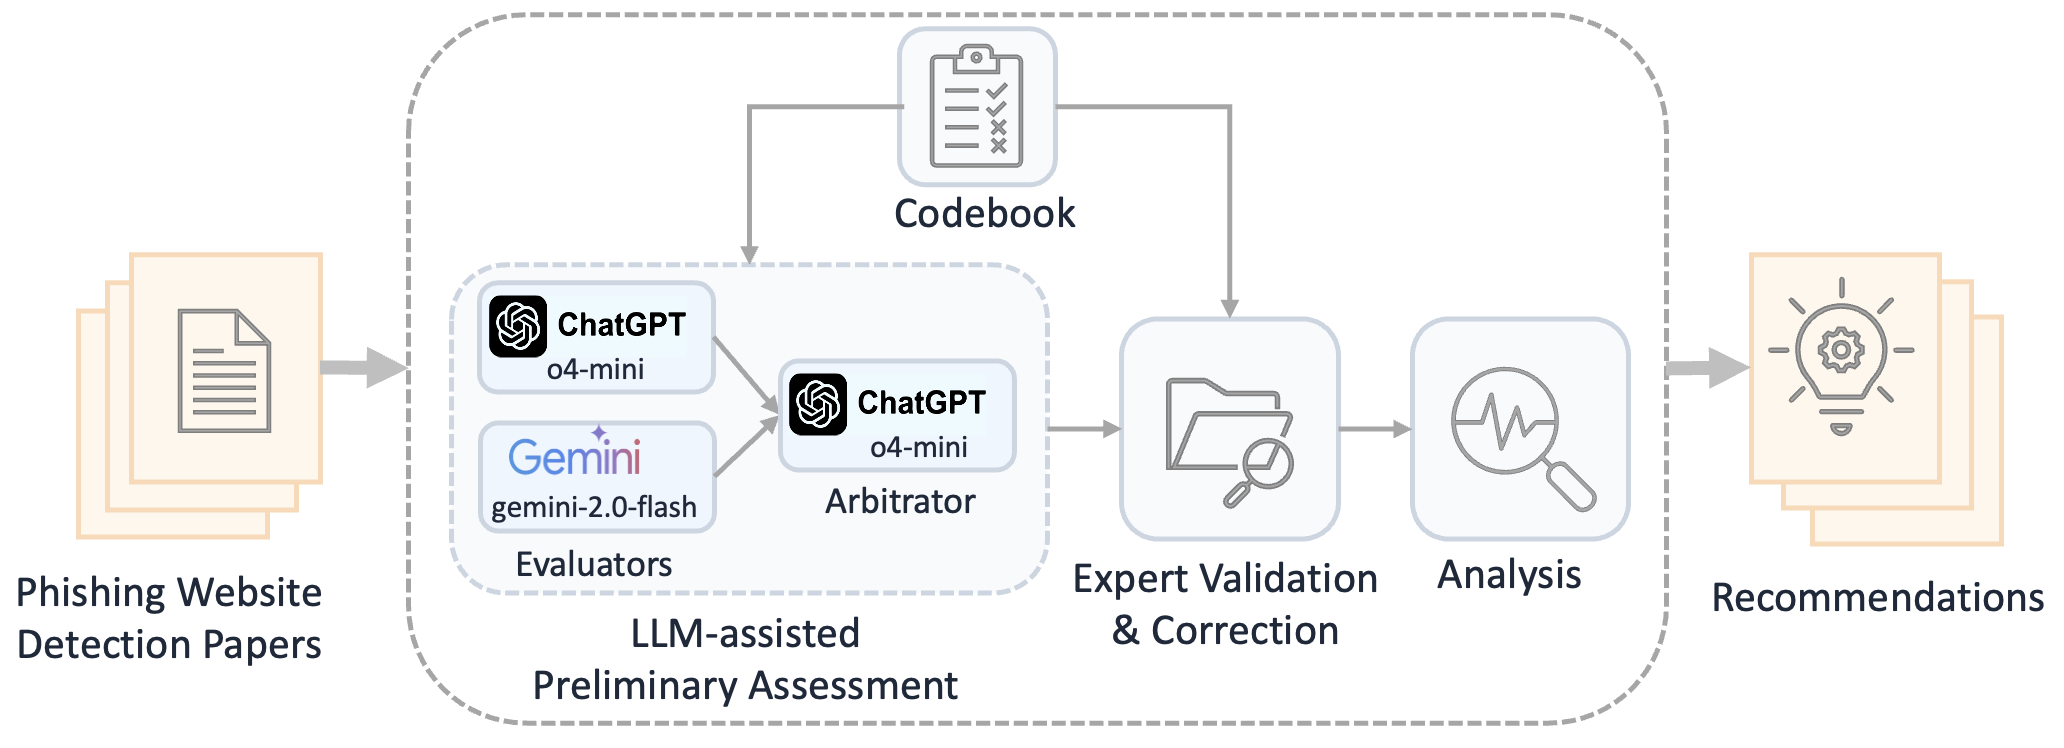
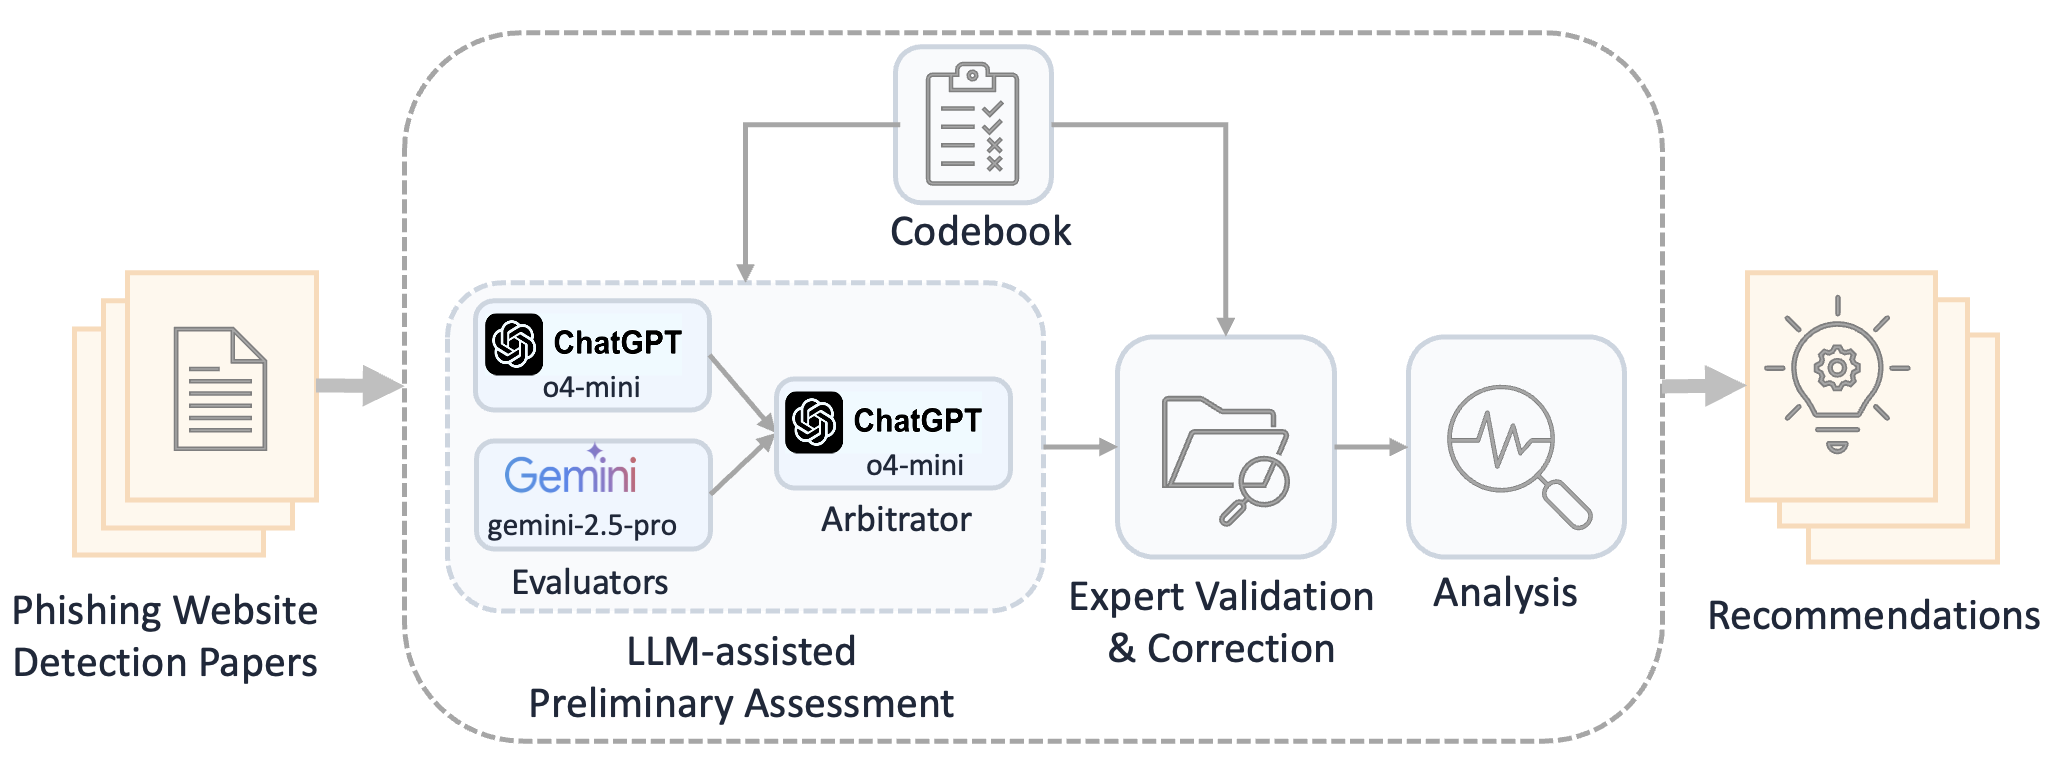
Update analyis script descriptions

diff --git a/scripts/fulfillment_by_publication_year.py b/scripts/fulfillment_by_publication_year.py
@@ -73,7 +73,7 @@ for paper, content in data.items():
             grand_metric_counts[metric_latex][verdict] += 1
 
 # ---- LaTeX output ----
-with open("year_table.txt", "w") as out_file:
+with open("publication_year_table.txt", "w") as out_file:
     out_file.write("Year & Count & " + " & ".join(latex_order) + " & Total \\\\\n")
     out_file.write("\\hline\n")
     for year in year_list:
@@ -163,5 +163,5 @@ for year in year_list + ["Grand total"]:
             "metrics": per_metric
         }
 
-with open("z_year_table.json", "w") as jf:
+with open("publication_year_table.json", "w") as jf:
     json.dump(json_dump, jf, indent=2)

diff --git a/scripts/fulfillment_by_citation.py b/scripts/fulfillment_by_citation.py
@@ -86,7 +86,7 @@ sorted_buckets = [b for b in bucket_order if b in buckets_present]
 if "unknown" in buckets_present:
     sorted_buckets.append("unknown")
 
-with open("z_citation_table.txt", "w") as out_file:
+with open("citation_table.txt", "w") as out_file:
     out_file.write("Citations & Count & " + " & ".join(latex_order) + " \\\\\n")
     out_file.write("\\hline\n")
     for bucket in sorted_buckets:

diff --git a/scripts/fulfillment_by_accuracy.py b/scripts/fulfillment_by_accuracy.py
@@ -88,7 +88,7 @@ for paper, content in data.items():
 ordered_bins = bin_labels  # as defined above
 
 # ---- LaTeX output ----
-with open("z_accuracy_table.txt", "w") as out_file:
+with open("accuracy_table.txt", "w") as out_file:
     out_file.write("Accuracy & " + " & ".join(latex_order) + " \\\\\n")
     out_file.write("\\hline\n")
     for bin_label in ordered_bins:

diff --git a/scripts/fulfillment_by_category.py b/scripts/fulfillment_by_category.py
@@ -67,7 +67,7 @@ def tex_bar(x, y, z, total):
             out.append(str(n))
     return " & ".join(out)
 
-with open("z_category.txt", "w") as out_file:
+with open("category.txt", "w") as out_file:
     # Header
     out_file.write("Category & Count & " + " & ".join(latex_order) + "\\\\\n")
     out_file.write("\\hline\n")

diff --git a/scripts/fulfillment_by_input.py b/scripts/fulfillment_by_input.py
@@ -156,5 +156,5 @@ for input_type in sorted_inputs + ["Total"]:
             "metrics": per_metric
         }
 
-with open("z_input_table.json", "w") as jf:
+with open("input_table.json", "w") as jf:
     json.dump(json_dump, jf, indent=2)

diff --git a/README.md b/README.md
@@ -2,13 +2,20 @@
 
 **PH**ishing detection literature **I**nspection via **L**LMs and **T**argeted **E**xpert **R**eview.
 
-PHILTER is a transparent, scalable framework for assessing AI-based phishing website detection papers against seven deployment-relevant requirements: four **Functionality** metrics (F1–F4) and three **Security** metrics (S1–S3). LLMs extract evidence and draft rationales; **experts validate and finalize all labels**. Applying PHILTER to 55 studies reveals systemic gaps and trade-offs.
+PHILTER is a transparent, scalable, and evidence-driven framework for assessing AI-based phishing website detection papers against four functionality (F1-F4) and three security (S1-S3) metrics. LLM preliminary assessment pipeline extracts supporting text from the paper and generates rationales for its assessment. Two experts independently validate all LLM-generated preliminary assessments by checking the extracted evidence and rationale against the paper and the codebook, correcting misinterpretations. Any disagreements were resolved through discussion. Applying PHILTER to 55 studies reveals systemic gaps and trade-offs.
 
 ---
 
 ## Framework Overview
 
 ![Framework Overview](framework-overview.png)
+
+### LLM-assisted Preliminary Assessment
+
+- Evaluators: Two evaluator LLMs (OpenAI o4-mini and Google Gemini-2.5-Pro) independently extract supporting text from each paper and generate a preliminary assessment with rationale.
+
+- Arbitrator: When the two evaluators disagree, an arbitrator LLM (OpenAI o4-mini) reviews the full paper, codebook, and both evaluator assessments, and generates an arbitrated assessment with its own rationale and extracted evidence.
+
 
 ## 📦 Repository layout
 
@@ -41,24 +48,49 @@ PHILTER/
 └─ requirements.txt
 ```
 
-## Quick start
-
-Put the research papers on phishing website detection inside `papers` directory.
+## LLM Assessment Pipline Script
 
 ```bash
-# 1) Create env (Python 3.10–3.12 recommended)
+python llm_assessment_pipeline.py --help                                              
+Both GOOGLE_API_KEY and GEMINI_API_KEY are set. Using GOOGLE_API_KEY.
+usage: llm_assessment_pipeline.py [-h] [-p PDF_PATH] [-m METRIC_PATH] [-o OUTPUT_JSON] [--override] [--no-cache]
+
+options:
+  -h, --help            show this help message and exit
+  -p PDF_PATH, --pdf-path PDF_PATH
+                        PDF file or directory
+  -m METRIC_PATH, --metric-path METRIC_PATH
+                        Metric file or directory
+  -o OUTPUT_JSON, --output-json OUTPUT_JSON
+                        Assessment output JSON file
+  --override            Override previously processed results
+  --no-cache            Invokes LLMs to recalculate verdicts, ignoring cached results
+```
+
+## LLM Assessment
+
+```bash
+# 1) Put the research papers on phishing website detection inside `papers` directory.
+
+# 2) Create env (Python 3.10–3.12 recommended)
 python -m venv .venv && source .venv/bin/activate
 
-# 2) Install dependencies
+# 3) Install dependencies
 pip install -r requirements.txt
 
-# 3) Set OpenAI and Gemini API keys
+# 4) Set OpenAI and Gemini API keys
 export OPENAI_API_KEY=...
-export GOOGLE_API_KEY=...
+export GEMINI_API_KEY=...
 
-# 4) Run LLM-assisted prelimiary evaluation stage
+# 5) Run LLM-assisted prelimiary evaluation stage
 python llm_assessment_pipeline.py -p . -m codebook/f1-coverage.txt -o assessments.json
+
+# 6) To run the assessment pipeline for all metrics, provide the directory containing the codebooks for all metrics in argument `-m`.
+
+python llm_assessment_pipeline.py -p . -m codebook -o assessments.json
+
 ```
+
 
 ## Contents of assessments.json
 
@@ -82,3 +114,47 @@ This file contains the structured evaluation results for each phishing website d
   - **S1 – Adaptation to Concept Drift**  
   - **S2 – Resistance to Active Attacks**  
   - **S3 – Privacy Preservation**
+
+## Analysis Scripts
+We provide following analysis scripts (`scripts` directory) to generate the summary tables from the final validated labels.
+
+- Generate rows for Table 3 (Final expert validated assesments for individual papers)
+
+  `python scripts/assessments_table_expert.py`
+
+- Generate rows for Table 8 (Metric fulfilment vs. accuracy)
+
+  `python scripts/fulfillment_by_accuracy.py`
+
+- Generate rows for Table 4 (Metric fulfillment vs. detection strategy)
+
+  `python scripts/fulfillment_by_category.py`
+
+- Generate rows for Table 10 (Metric fulfillment vs. citation count)
+
+  `python scripts/fulfillment_by_citation.py`
+
+- Generate rows for Table 6 (Metric fulfillment vs. deployment mode)
+  
+  `python scripts/fulfillment_by_deployment_mode.py` 
+
+- Generate rows for Table 7 (Metric fulfillment vs. detection mode)
+
+  `python scripts/fulfillment_by_detection_mode.py`
+
+- Generate rows for Table 5 (Metric fulfillment vs. input source)
+
+  `python scripts/fulfillment_by_input.py`
+
+- Generate rows for Table 9 (Metric fulfillment vs. publication year)
+
+  `python scripts/fulfillment_by_publication_year.py`
+
+- Generate rows for Table 12 (LLM vs Expert agreement on PHILTER metrics)
+
+  `python scripts/llm_vs_expert_agreement_rates.py`
+
+- Generate rows for Table 12 ( Per-paper agreement between LLM-generated labels and expert-validated labels)
+
+  `python scripts/llm_vs_expert_assessments.py`
+
